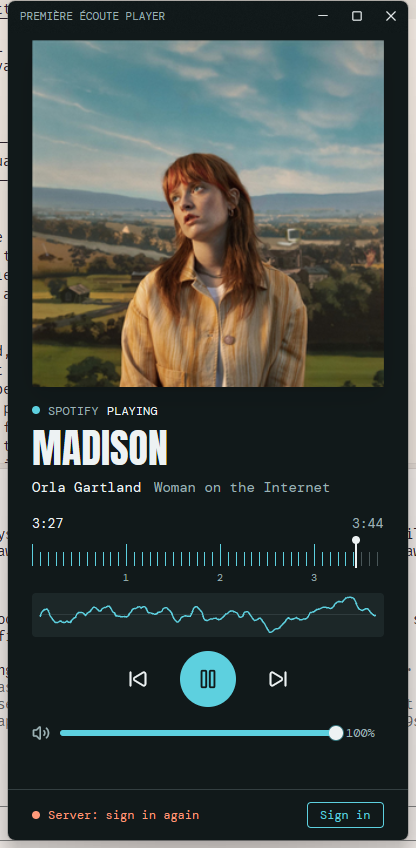
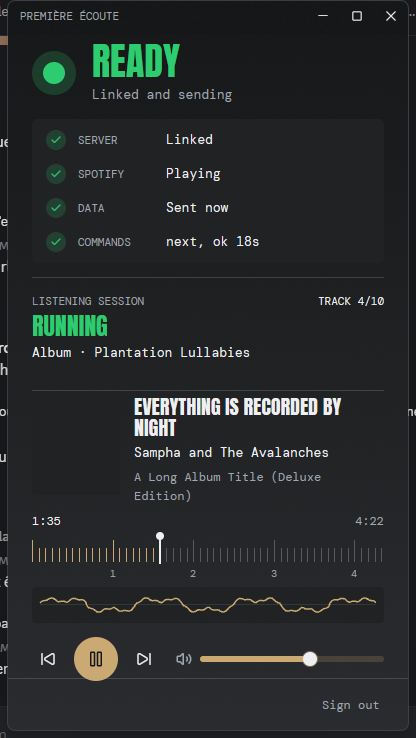
docs(desktop-player): document the companion window and the track start and end
New screenshots for the verdict, waiting, action needed and local only states.
Describe the status checklist and session section, the guard, the ending and the
start check with what was measured on a real Spotify, and the dev switches.

diff --git a/apps/desktop-player/docs/architecture.md b/apps/desktop-player/docs/architecture.md
@@ -222,13 +222,31 @@ A plain `spotify:track:<id>` only opens the track's *album page*. Testing agains
 | `spotify:track:<id>:play`, `?play=true`, `--uri=…` | no change |
 | `spotify:track:<id>?autoplay=true` | starts playing |
 
-**The track stops at its end.** The desktop app plays a commanded track inside its album and carries on with the next song. Tested against a real client: `?autoplay=true`, `#0.01`, the `open.spotify.com` link and `&context=spotify:track:<id>` all continue with the album, and no other URI parameter is known to change that. So `player::StopAtEnd` pauses the track in its last second (`END_MARGIN`): `run` arms it when a `play_uri` succeeds, it locks on to the first track that starts afterwards (a different track, or the same one restarted), follows it, and asks for one `toggle_play_pause` when 1 s remain; the poll wakes up exactly then (`wake_in`). It lets go when the track changes (the user skipped) or when no new track shows up within 20 s. Playing a single track and then Spotify's own autoplay would need the Web API (`PUT /me/player/play` with `uris`) from the backend.
+**The track stops at its end, like with the Web API.** With the API a commanded track plays alone and stops; the desktop app instead carries on with the next album track (tested against a real client: `?autoplay=true`, `#0.01`, the `open.spotify.com` link and `&context=spotify:track:<id>` all continue with the album). The player makes it behave the same, and nothing of this is visible to the backend:
+
+- **`StopAtEnd`** (`player.rs`, pure) follows the commanded track. `run` arms it when a `play_uri` succeeds. It locks on to whatever plays next: a different track, the same one restarted, a paused track that plays again, or, after `SETTLE` (4 s), the track that just kept playing (the app does not always switch: it may resume what was loaded). Spotify updates the title and the length one after the other, so right after a start the title may be the previous track's with the new length: `start` waits for the identity to hold still, and the guard re-locks when the identity changes within 5 s of the lock to a track near its start (a real skip, later or mid-track, is left alone; a track near its end that was replaced is a missed end). It asks for the pause when `END_MARGIN` (1 s) remains, and the loop wakes up exactly then (`wake_in`). The margin covers the length SMTC reports, which is rounded up by up to a second, and the latency of the pause. If the track was replaced just after its end (`take_missed`), the next track is paused at once.
+- **While a session runs, whatever plays is guarded.** The backend's `session` event (state `active`) sets `player::session_running()`; the loop (`run_with`) then follows the playing track with `StopAtEnd::follow` even if no command started it. A restart of the player, or the streamer pressing play in Spotify, therefore changes nothing: before this, a song running when the player restarted was unguarded and carried on to the next track. Nothing is guarded when no session runs (or the server link is down), so the streamer's own listening is left alone. A track the pause already caught is not followed again unless it plays with time left.
+- **`Backend::pause`** is Spotify's own pause (`TryPauseAsync`), never the toggle: pausing a paused Spotify changes nothing, so it can be repeated, and it cannot resume a track by mistake.
+- **`Ending`** (`ending.rs`, pure) is what everyone else sees. After the pause the track is reported *playing at its very end* for `HOLD` (1.5 s, longer than the 1 s between snapshots), so the backend sees the "99% or more" state it waits for to move the session on, whatever the track length; then *paused at its end*, as a track that stopped by itself. If Spotify plays on anyway (a late pause, a pause it ignored), that track is paused again (every 250 ms, at most 5 times in 4 s) and never reported. The hiding stops when the user plays something later than that, when Spotify closes, or when a new track is commanded.
+- Everything is in the log (`guard: …`, `commanded track … ended`, `Spotify played on after the pause`).
+- **Development:** `PLAYER_DEV_PLAY=spotify:track:<id>` plays that track at start, as the backend would command it, and `PLAYER_DEV_SESSION=1` behaves as if a session were running, to try all this against a real Spotify without a backend. A second copy next to a running player needs `PLAYER_UI_PREVIEW=failed` to get past the single-instance guard, and shares its log file.
+
+**A commanded track starts from its beginning, or the command fails.** Measured against a real client, every track of an album requested in turn starts from 0:00 as asked, **except the first track of an album**: Spotify then goes back to where that album was last left (the loaded track when it is the loaded album, or the album's last track and position, 30 s into track 4 in one session, even while another album plays), whatever the URI form (`?autoplay=true`, `?context=…`, the album URI, asking twice). `start.rs` (pure, tested against a simulated Spotify that behaves so) asks for the track and checks what follows:
+
+- **It judges a settled state.** Spotify updates the title, the track number and the length one after the other while it switches (for a moment the old title and number come with the new length), so nothing is judged before the identity has held still for 1 s (`STABLE_POLLS`). "Same track" allows 1.5 s of jitter on the length (`player::same_track`): Spotify reports 194.1 s for a parked track and 194.0 s once resumed.
+- **With the track number** (the backend sends `track_number` for album tracks, `Command::PlayTrack`): the track number Spotify reports must be the one asked for, and the track must play from within 3 s of its start. Another number is a wrong track, whatever the position; the right track from the middle is restarted.
+- **Without it** (singles, playlist tracks, an older backend): only the position can tell. A track that plays from within 3 s of its start was started; one that plays from the middle was not, and the track asked for can only have been the first of its album.
+- **The repair** goes to the track asked for (track 1 without a number): it mutes Spotify's own volume (a skip starts the track it lands on, even when paused), pauses, seeks to 0:00, then skips back or forward, looking at where Spotify really is before each step (a track resumed in its last second goes on to the next one by itself, so a number read earlier is not trusted), and restores the volume. Skipping back is only done from the start of a track. It takes about 0.2 s per track skipped and nothing is audible.
+- **A repair that fails is tried once more** from where Spotify then is, knowing this time that the command only resumes what is loaded (the first attempt leaves the loaded track at its start, which would otherwise look like a clean restart).
+- **Anything else** (nothing plays within 5 s, the track number is unknown, a skip does nothing twice): the command fails and Spotify is paused, so nothing nobody asked for keeps playing. The backend gets the failure as the `play_uri` ack.
+
+The ack of a `play_uri` therefore means *the track plays from its beginning*, not only *the launch was accepted*. A track that was playing before the command gets 3 s to be replaced before it is taken for a resume. Only a backend that can read, pause, seek and skip (`Backend::verifies_start`, SMTC) does this.
 
 The window has no track field any more: `play_uri` is called for commands from the backend. When it succeeds, `identity.rs` remembers the URI so the next track change reports it. This relies on undocumented client behaviour and may change with Spotify updates. The test `autoplay_uri_makes_the_desktop_app_start_the_track` pins the format; the behaviour itself can only be verified against a real client.
 
 ## The UI
 
-The window is a single `NowPlaying` view in `src/ui/mod.rs`; `src/main.rs` only wires the shared state, fonts, assets and window options. Design decisions (palette from the cover, type, the minute ruler, the footer) are in [`docs/ui.md`](ui.md).
+The window is a single `NowPlaying` view in `src/ui/mod.rs`; `src/main.rs` only wires the shared state, fonts, assets and window options. Design decisions (the verdict and the checklist, status colours, palette from the cover, type, the minute ruler) are in [`docs/ui.md`](ui.md).
 
 How it ties into the architecture:
 
@@ -236,7 +254,7 @@ How it ties into the architecture:
 - **Commands out:** the transport buttons clone the `Sender<Command>` into `cx.listener` closures and send `Request::local(Command::Previous)`, `TogglePlayPause`, `Next`.
 - **Volume slider and the 1.5 s hold:** two writers feed the slider, the user and the poll. A drag emits `SliderEvent::Change`; the subscription records `volume_touched` and sends `SetVolume`. `render()` writes the polled volume into the slider only when the user has not touched it for `VOLUME_HOLD` and the values differ by more than 0.005. `SliderState::set_value` does not emit `Change`, so no feedback loop.
 - **Repaint:** GPUI repaints only when notified, so a task spawned with `cx.spawn` calls `cx.notify()` every `POLL / 3`, or every 33 ms while a track plays and the waveform is live.
-- **Remote status:** the footer renders `RemoteStatus` (`src/remote_status.rs`): the link state and what was exchanged with the backend. The remote subsystem (ADR 0001) is the only writer.
+- **Remote status:** `RemoteStatus` (`src/remote_status.rs`) holds the link state and what was exchanged with the backend. `src/status.rs` turns it, with the `Snapshot`, into the verdict and the checklist rows the window draws (and `src/light.rs` into the taskbar and tray light). The remote subsystem (ADR 0001) is the only writer.
 - **Cover art:** `smtc.rs` reads the SMTC thumbnail once per track change (retrying a few polls, since it arrives late), `Artwork::from_bytes` decodes it and computes the dominant tint, and the view caches the decoded `gpui::Image` by `Artwork::id`.
 
 ## The live waveform
@@ -288,7 +306,7 @@ Commands from the backend go to the same player worker as the buttons, as a `Req
 
 `identity.rs` supplies the snapshot's `uri`: Windows does not expose Spotify's track URI, and the backend detects track changes by comparing it. See the amendment in ADR 0001.
 
-Try it against a local backend: start the player, click "Connect to server" in the footer, keep the address `http://localhost:4000` and press Connect (or Enter). The address is saved in `%APPDATA%\premiere-ecoute-player\server.txt`, so the next start reconnects by itself. The footer then shows "Sign in": click it, approve in the browser (you need to be logged in to the backend with Twitch), and the server band shows `Server linked`. `PLAYER_HUB_URL` overrides the saved address, for scripts and development.
+Try it against a local backend: start the player, click "Connect to server" in the footer, keep the address `http://localhost:4000` and press Connect (or Enter). The address is saved in `%APPDATA%\premiere-ecoute-player\server.txt`, so the next start reconnects by itself. The footer then shows "Sign in": click it, approve in the browser (you need to be logged in to the backend with Twitch), and the window turns green (`READY`, `Server: Linked`). `PLAYER_HUB_URL` overrides the saved address, for scripts and development.
 
 ## Error handling
 

diff --git a/apps/desktop-player/docs/ui.md b/apps/desktop-player/docs/ui.md
@@ -1,16 +1,67 @@
 # UI design
 
-![Playing](ui/playing.png)
+![Ready](ui/playing.png)
 
-![Spotify closed, server offline](ui/idle.png)
+![Waiting for Spotify](ui/waiting.png)
 
-![Long artist and album names](ui/long-names.png)
+![Action needed](ui/attention.png)
 
-The window is a remote for one thing: the Spotify on this PC. It sits next to a stream, so it has to read at a glance (what is playing, is it playing) and be hard to misclick.
+![Local only](ui/local-only.png)
+
+The window is a companion to a listening session, not a player. It sits next to a stream, and its job is to make the streamer **confident about the link**: one glance says whether the session will work, and if not, what to fix. The music controls are still there, small, because they are handy, but they are not the point.
 
 ## Layout
 
-A vertical card (default 400 by 840, minimum 360 by 660). From top to bottom: the cover, the Spotify state, the title and one credits line (the artist, then the album in the muted colour; the album is left out when it only repeats the title, as for singles, and long names are truncated), the minute ruler with the elapsed and total time, the live waveform, the transport buttons centred, the volume row, a line for failed commands, and the server band. The cover takes whatever height the controls leave, so a shorter window crops it instead of clipping the controls.
+A compact card of a fixed size (400 by 730, not resizable): every block has a fixed height, so a bigger window would only add empty space. From top to bottom:
+
+1. **The verdict**: a beacon and a headline in the status light's colour (`READY`, `WAITING`, `ACTION NEEDED`, `LOCAL ONLY`), with one line naming the first thing to fix (`Spotify: not running. Open Spotify`).
+2. **The checklist** (the signals): four rows, one per thing that has to be true, each with a glyph (tick, dots, cross, dash), what is checked and what is true now.
+3. **The listening session**: its own section between two separators, see below.
+4. **Now playing**: the cover, the title in the poster face (up to two lines), the artist, and the album in full (up to two lines, so a long album name is readable).
+5. **The minute ruler** with the elapsed and total time, and **the live waveform**.
+6. **Transport and volume** on one row.
+7. **The footer**, one fixed row: the actions the link needs (Sign in, Sign out, Connect to server). While the server address is edited, the field, Connect and a close button take the row's place, and an invalid address is shown in the verdict's hint line, so the window never changes height.
+
+## The checklist
+
+| Row | Ok | Waiting | Bad | Off |
+|---|---|---|---|---|
+| Server | `Linked` | `Connecting`, `Waiting for the browser` | `Offline, retry in 12 s`, `Sign in again`, `Error: …` | `Not linked` |
+| Spotify | `Playing`, `Paused`, `Stopped` | `Not running. Open Spotify` | `Can't read it: …` | |
+| Data | `Sent 3s`: a snapshot left lately | `Waiting for the first send` | `Nothing sent for 8s` | `Waiting for the server` |
+| Commands | `next, ok 18s`: the last command and how it ended | | `next, failed 4s` | `None received yet` |
+
+`Data` is the proof that information flows: the backend gives up on a player that stays silent for 5 s and goes back to polling Spotify, so more than 5 s without a snapshot is Bad, and the light cannot be green. `Commands` is information only: it never decides the verdict, so one refused command does not turn a working link red.
+
+The rules live in `src/status.rs` (pure and tested). A test checks the light is green exactly when `Server`, `Spotify` and `Data` are all Ok, for every combination, so the window and the taskbar badge cannot disagree.
+
+A planned row, "the server heard us" (an acknowledgement of snapshots), would go after `Data`. The window draws whatever rows it is given.
+
+## The listening session
+
+A section of its own between the signals and the player, closed by separators (no card, no coloured edge), because it answers a different question: not "does the link work" but "where is the streamer". It shows what the server last reported through the `session` event (no votes): a small label with the track position on the right, the state in the poster face, and what it is about on its own line, in full text colour, wrapping to two lines rather than being cut.
+
+| Headline | Colour | Means | Line below |
+|---|---|---|---|
+| `RUNNING` | green | A session is running | `Album · Plantation Lullabies`, and `TRACK 4/10` on the right for an album or a playlist |
+| `READY TO START` | amber | Prepared in the last two hours, not started | Same, without a position |
+| `NO SESSION` | grey | The streamer has none | `Start one from the dashboard` |
+| `UNKNOWN` | grey | The server has not answered yet, or the link is not live | `Waiting for the server` |
+
+It is information only: it never decides the verdict (a working link with no session is still `READY`), and it is forgotten as soon as the link is not live, so an old answer is never shown as current. The rules are `session_view` in `src/status.rs`.
+
+## Status colours
+
+The light and the checklist use fixed green, amber, red and grey (`Light::rgb`), never the cover's palette: a green cover must not look like a green light. The same colours are on the taskbar badge and the tray icon (see below). Problems that are not link problems (a failed local command) use the palette's warning colour.
+
+| Light | Meaning |
+|---|---|
+| Green | Linked to the server, sending, and Spotify is running |
+| Amber | Signing in, connecting, retrying, nothing sent lately, or Spotify is not running |
+| Red | Login rejected, server error, or the player cannot read Spotify |
+| Grey | Local only |
+
+Playing or paused does not change it. Minimizing the window hides it to the tray (no taskbar button); the tray icon is pinned to the visible tray at the first run, a left click restores the window and a right click offers Open and Quit. Nothing flashes.
 
 ## Palette comes from the cover
 
@@ -42,23 +93,6 @@ The progress bar is a ruler. A tick per 5 s (wider steps on long tracks, never m
 
 Under the ruler, a small box with a line that stays in place and moves with the sound, like an oscilloscope: Spotify's actual waveform of the last ~25 ms, redrawn about 30 times a second over a faint baseline. The track itself is unknown, so this is what plays now. Flat when paused. Spotify's audio only; see `docs/architecture.md`.
 
-## Footer: link to the backend
-
-One short row. On the left, a dot and the link: `Local only` (the server address could not be used, with a "Connect to server" button that opens an address field, prefilled with the build default: `https://premiere-ecoute.fr`, or `http://localhost:4000` in a `dev-server` build; Enter or Connect saves it and starts the link), `Connecting to server`, `Server linked`, `Server offline, retry in 12 s`, `Server: sign in again`, `Server error: …`. When linked, the row also shows `sent 7s` (age of the last snapshot sent) and, right-aligned, the last command received with its outcome (`next, ok 18s`), which appears only once a command has been received. "Sign out" sits at the right end of the row once the player is enrolled (not in the title bar: Windows treats the whole title bar as the window caption, so clicks inside it never reach a button). Problems use the warning colour. The source of truth is `RemoteStatus` in `src/remote_status.rs`; only the remote subsystem (ADR 0001) writes it.
-
-## Status light and tray
-
-The streamer starts the player and leaves it behind other software, so one light says whether the session will work, without opening the window. It shows as a dot on the taskbar button and as the notification-area icon, with the same colour and a tooltip:
-
-| Light | Meaning |
-|---|---|
-| Green | Linked to the server and Spotify is running |
-| Amber | Signing in, connecting, retrying, or Spotify is not running |
-| Red | Login rejected, server error, or the player cannot read Spotify |
-| Grey | Local only |
-
-Playing or paused does not change it. Minimizing the window hides it to the tray (no taskbar button); a left click on the icon restores it, a right click offers Open and Quit. Nothing flashes. The rules are `Light::of` in `src/light.rs`.
-
 ## Copy
 
 Sentence case, plain verbs, no apologies, no separator characters between pieces of a phrase (use separate lines, elements or commas). Empty states say what to do ("Open Spotify on this PC. It shows up here as soon as it plays."). Command failures say what failed ("Last action failed: …").
@@ -67,7 +101,8 @@ Sentence case, plain verbs, no apologies, no separator characters between pieces
 
 The window reads `PLAYER_UI_PREVIEW` (comma separated) at startup, for development only:
 
-- `connected`, `connecting`, `offline`, `unauthorized`, `failed`: fake backend states with a believable exchange.
+- `connected`, `connecting`, `offline`, `unauthorized`, `failed`: fake backend states with a believable exchange. A previewed `connected` keeps sending, so it stays green.
+- `no-session`, `preparing`: with `connected`, what the server says about the listening session (the default is a running album session on its fourth track).
 - `connect`: start with the server address field open.
 - `idle`: do not talk to Spotify; show the "Nothing playing" state.
 - `sample`: do not talk to Spotify; show a playing track with long names, to check truncation and spacing (with a synthetic signal in the waveform).

diff --git a/apps/desktop-player/AGENTS.md b/apps/desktop-player/AGENTS.md
@@ -35,8 +35,8 @@ Tests live in dedicated files, never inline. A module `foo.rs` ends with `#[cfg(
 - `src/smtc.rs` (`cfg(windows)`): `Backend` implementation. Metadata, play/pause, next/previous, and position come from Windows SMTC (`GlobalSystemMediaTransportControlsSessionManager`), filtering the session whose AppUserModelId contains "spotify".
 - `src/capture.rs` (`cfg(windows)`) and `src/waveform.rs`: the live waveform. `capture.rs` captures only Spotify's audio (per-process loopback) and keeps nothing beyond a ~25 ms window; `waveform.rs` is the pure, tested `Scope` behind the oscilloscope line. Never drop the `PROPVARIANT` that carries the activation parameters (see `docs/architecture.md`).
 - `src/volume.rs` (`cfg(windows)`): Spotify's per-app volume through Core Audio sessions (`IAudioSessionManager2` → `ISimpleAudioVolume`). SMTC has no volume. The session only exists once Spotify has played audio, hence `Snapshot::volume: Option<f32>`.
-- `src/remote/`: the link to the backend (server = `PLAYER_HUB_URL`, else the address saved in `%APPDATA%\premiere-ecoute-player\server.txt` by the footer's "Connect to server" button, else the build default `remote::config::DEFAULT_SERVER`: `https://premiere-ecoute.fr`, or `http://localhost:4000` when built with `--features dev-server`). Pure and tested: `protocol.rs`, `session.rs` (state machine over `Transport`/`Clock`/`Executor`), `retry.rs`, `oauth.rs`, `auth.rs`. Real I/O: `transport.rs`, `http.rs`, `credentials.rs`. `mod.rs` holds the supervised worker. Contract: `docs/guides/desktop-player.md` at the monorepo root; see `docs/architecture.md` and ADR 0001 amendment 1. `src/identity.rs` makes the snapshot's `uri`; `src/log.rs` is the log file (`%LOCALAPPDATA%\premiere-ecoute-player\player.log`; silent until `log::init()`; never log tokens); `src/instance.rs` (`cfg(windows)`) keeps one player per PC with a named mutex; `src/light.rs` is the pure status light (green, amber, red, grey) from the snapshot and the backend link, shown by `src/taskbar.rs` (overlay badge on the taskbar button) and `src/tray.rs` (notification-area icon on its own thread; minimizing hides the window to it, a left click restores it, the right-click menu has Open and Quit); `src/supervise.rs` restarts crashed workers.
-- `src/ui/` and `src/main.rs`: GPUI view (`ui/mod.rs`), pure design logic with tests (`ui/palette.rs`, `ui/ruler.rs`, `artwork.rs`), `remote_status.rs` for the backend link shown in the footer. `main.rs` only wires state, fonts, assets and the window. A backend thread runs `player::run`; the UI polls the shared snapshot on a timer and sends `Command`s. The volume slider ignores polled values for `VOLUME_HOLD` after user input so the thumb does not jump back.
+- `src/remote/`: the link to the backend (server = `PLAYER_HUB_URL`, else the address saved in `%APPDATA%\premiere-ecoute-player\server.txt` by the footer's "Connect to server" button, else the build default `remote::config::DEFAULT_SERVER`: `https://premiere-ecoute.fr`, or `http://localhost:4000` when built with `--features dev-server`). Pure and tested: `protocol.rs`, `session.rs` (state machine over `Transport`/`Clock`/`Executor`), `retry.rs`, `oauth.rs`, `auth.rs`. Real I/O: `transport.rs`, `http.rs`, `credentials.rs`. `mod.rs` holds the supervised worker. Contract: `docs/guides/desktop-player.md` at the monorepo root; see `docs/architecture.md` and ADR 0001 amendment 1. `src/identity.rs` makes the snapshot's `uri`; `src/log.rs` is the log file (`%LOCALAPPDATA%\premiere-ecoute-player\player.log`; silent until `log::init()`; never log tokens); `src/start.rs` checks that a commanded track plays from its beginning and walks back to track 1 when Spotify resumed the loaded track instead (it fails the command when it cannot); `src/ending.rs` is how a commanded track's end is reported (playing at its very end, then paused; a leaked next track is paused again and never shown); `src/instance.rs` (`cfg(windows)`) keeps one player per PC with a named mutex; `src/light.rs` is the pure status light (green, amber, red, grey) from the snapshot and the backend link, shown by `src/taskbar.rs` (overlay badge on the taskbar button) and `src/tray.rs` (notification-area icon on its own thread; minimizing hides the window to it, a left click restores it, the right-click menu has Open and Quit); `src/supervise.rs` restarts crashed workers.
+- `src/ui/` and `src/main.rs`: GPUI view (`ui/mod.rs`: verdict, checklist, now playing, footer actions), pure design logic with tests (`ui/palette.rs`, `ui/ruler.rs`, `artwork.rs`), `remote_status.rs` for the backend link, and `status.rs` (pure: the verdict and the checklist rows the window draws, `Session` being what the server reports through the `session` event, kept in `RemoteStatus.session`; a new signal is a new row there, test-first). `main.rs` only wires state, fonts, assets and the window. A backend thread runs `player::run`; the UI polls the shared snapshot on a timer and sends `Command`s. The volume slider ignores polled values for `VOLUME_HOLD` after user input so the thumb does not jump back.
 
 ## Rules of thumb
 
@@ -47,11 +47,11 @@ Tests live in dedicated files, never inline. A module `foo.rs` ends with `#[cfg(
 
 ## Non-obvious details
 
-- **Starting a track**: `spotify:track:<id>` alone only opens the album page. The backend appends `?autoplay=true` (verified against the desktop client; `:play`, `?play=true`, and `--uri=` did not work) and launches it via `rundll32 url.dll,FileProtocolHandler`. The desktop app then continues with the album, which no URI variant avoids, so `player::StopAtEnd` pauses the track in its last second.
+- **Starting a track**: `spotify:track:<id>` alone only opens the album page. The backend appends `?autoplay=true` (verified against the desktop client; `:play`, `?play=true`, and `--uri=` did not work) and launches it via `rundll32 url.dll,FileProtocolHandler`. The desktop app then continues with the album, which no URI variant avoids, so the player pauses the commanded track at its end (`player::StopAtEnd`, `Backend::pause`, `ending.rs`) and hides that from the backend. It also checks that the track really starts from its beginning and repairs the one case where Spotify resumes instead (`start.rs`); see `docs/architecture.md`. Try it against a real Spotify with `PLAYER_DEV_PLAY=spotify:track:<id>` (with `PLAYER_DEV_TRACK=<n>` for its position in its album, as the backend sends it) and `PLAYER_DEV_SESSION=1`. While a session runs (backend `session` event), whatever plays is guarded, not only commanded tracks.
 - **SMTC position** is only the value at the last update; `current_position` adds elapsed time while playing.
 - **Cross-compiling GPUI shaders**: upstream `gpui-pre-windows`'s `build.rs` only runs `fxc` when the *host* is Windows. `vendor/gpui-pre-windows` is a copy with a patched `build.rs` that copies a pre-generated `shaders_bytes.rs`, wired via `[patch.crates-io]` in `Cargo.toml`. Regenerate it with `tools/gen-shaders.sh` after a GPUI version bump; it uses `tools/hlslc` (a tiny `D3DCompile` wrapper, built with `cargo xwin build` inside `tools/hlslc`) run through WSL interop, because no `fxc.exe` is available.
 - `windows` crate async calls are blocked on with the inherent `.join()`, not `.get()`.
 
-See `docs/architecture.md` for the full walkthrough and `docs/ui.md` for the UI design (palette from the cover, type, ruler, footer). Look at the UI with `tools/shot.sh` and `PLAYER_UI_PREVIEW`; both are described there.
+See `docs/architecture.md` for the full walkthrough and `docs/ui.md` for the UI design (the verdict and checklist, status colours, palette from the cover, type, ruler). Look at the UI with `tools/shot.sh` and `PLAYER_UI_PREVIEW`; both are described there.
 
 Decisions: `docs/adr/` (0001: remote control via Phoenix Channels, accepted and implemented). What to tidy next, with priorities: `docs/refactoring.md`. The backend contract is `docs/guides/desktop-player.md` at the monorepo root.

diff --git a/apps/desktop-player/README.md b/apps/desktop-player/README.md
@@ -17,7 +17,7 @@ For development, copy `target/x86_64-pc-windows-msvc/release/premiere-ecoute-pla
 | [AGENTS.md](AGENTS.md) | Build and test commands, conventions, how the code is laid out |
 | [docs/architecture.md](docs/architecture.md) | How it works: threads, Windows APIs, the backend link, the waveform, the build |
 | [docs/distribution.md](docs/distribution.md) | Installer, portable zip, icon, versioning, what is not done (signing, auto-update) |
-| [docs/ui.md](docs/ui.md) | The design: palette from the cover, type, ruler, waveform, footer |
+| [docs/ui.md](docs/ui.md) | The design: verdict and checklist, status colours, palette from the cover, ruler, waveform |
 | [docs/adr/0001-remote-control-via-phoenix-channels.md](docs/adr/0001-remote-control-via-phoenix-channels.md) | Why and how the player links to the backend |
 | [docs/refactoring.md](docs/refactoring.md) | What to tidy next, with priorities |
 
